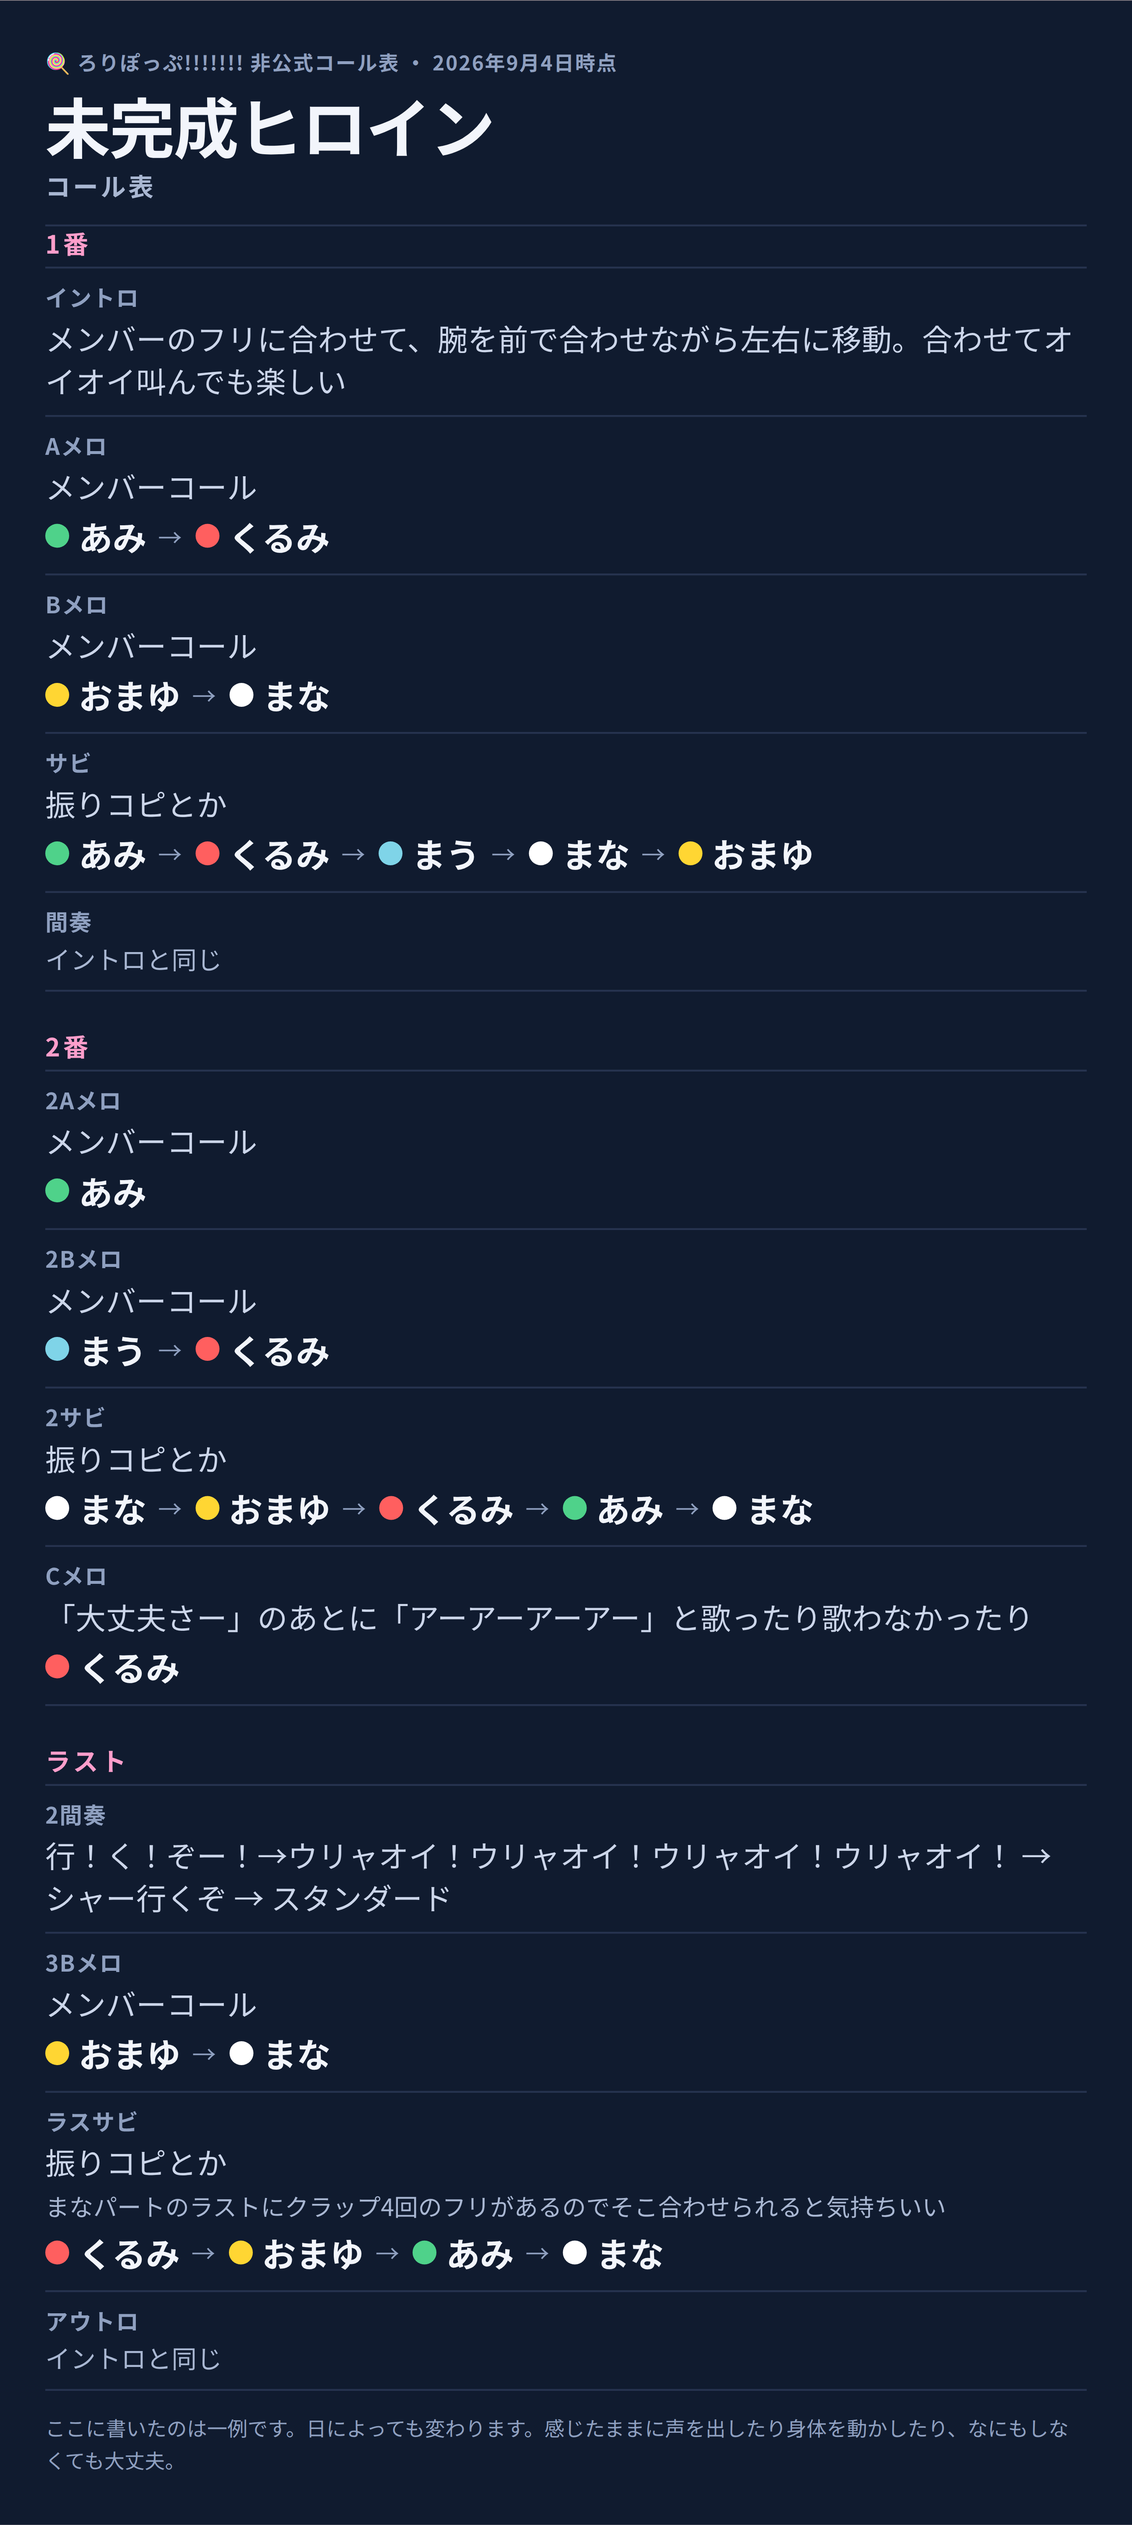
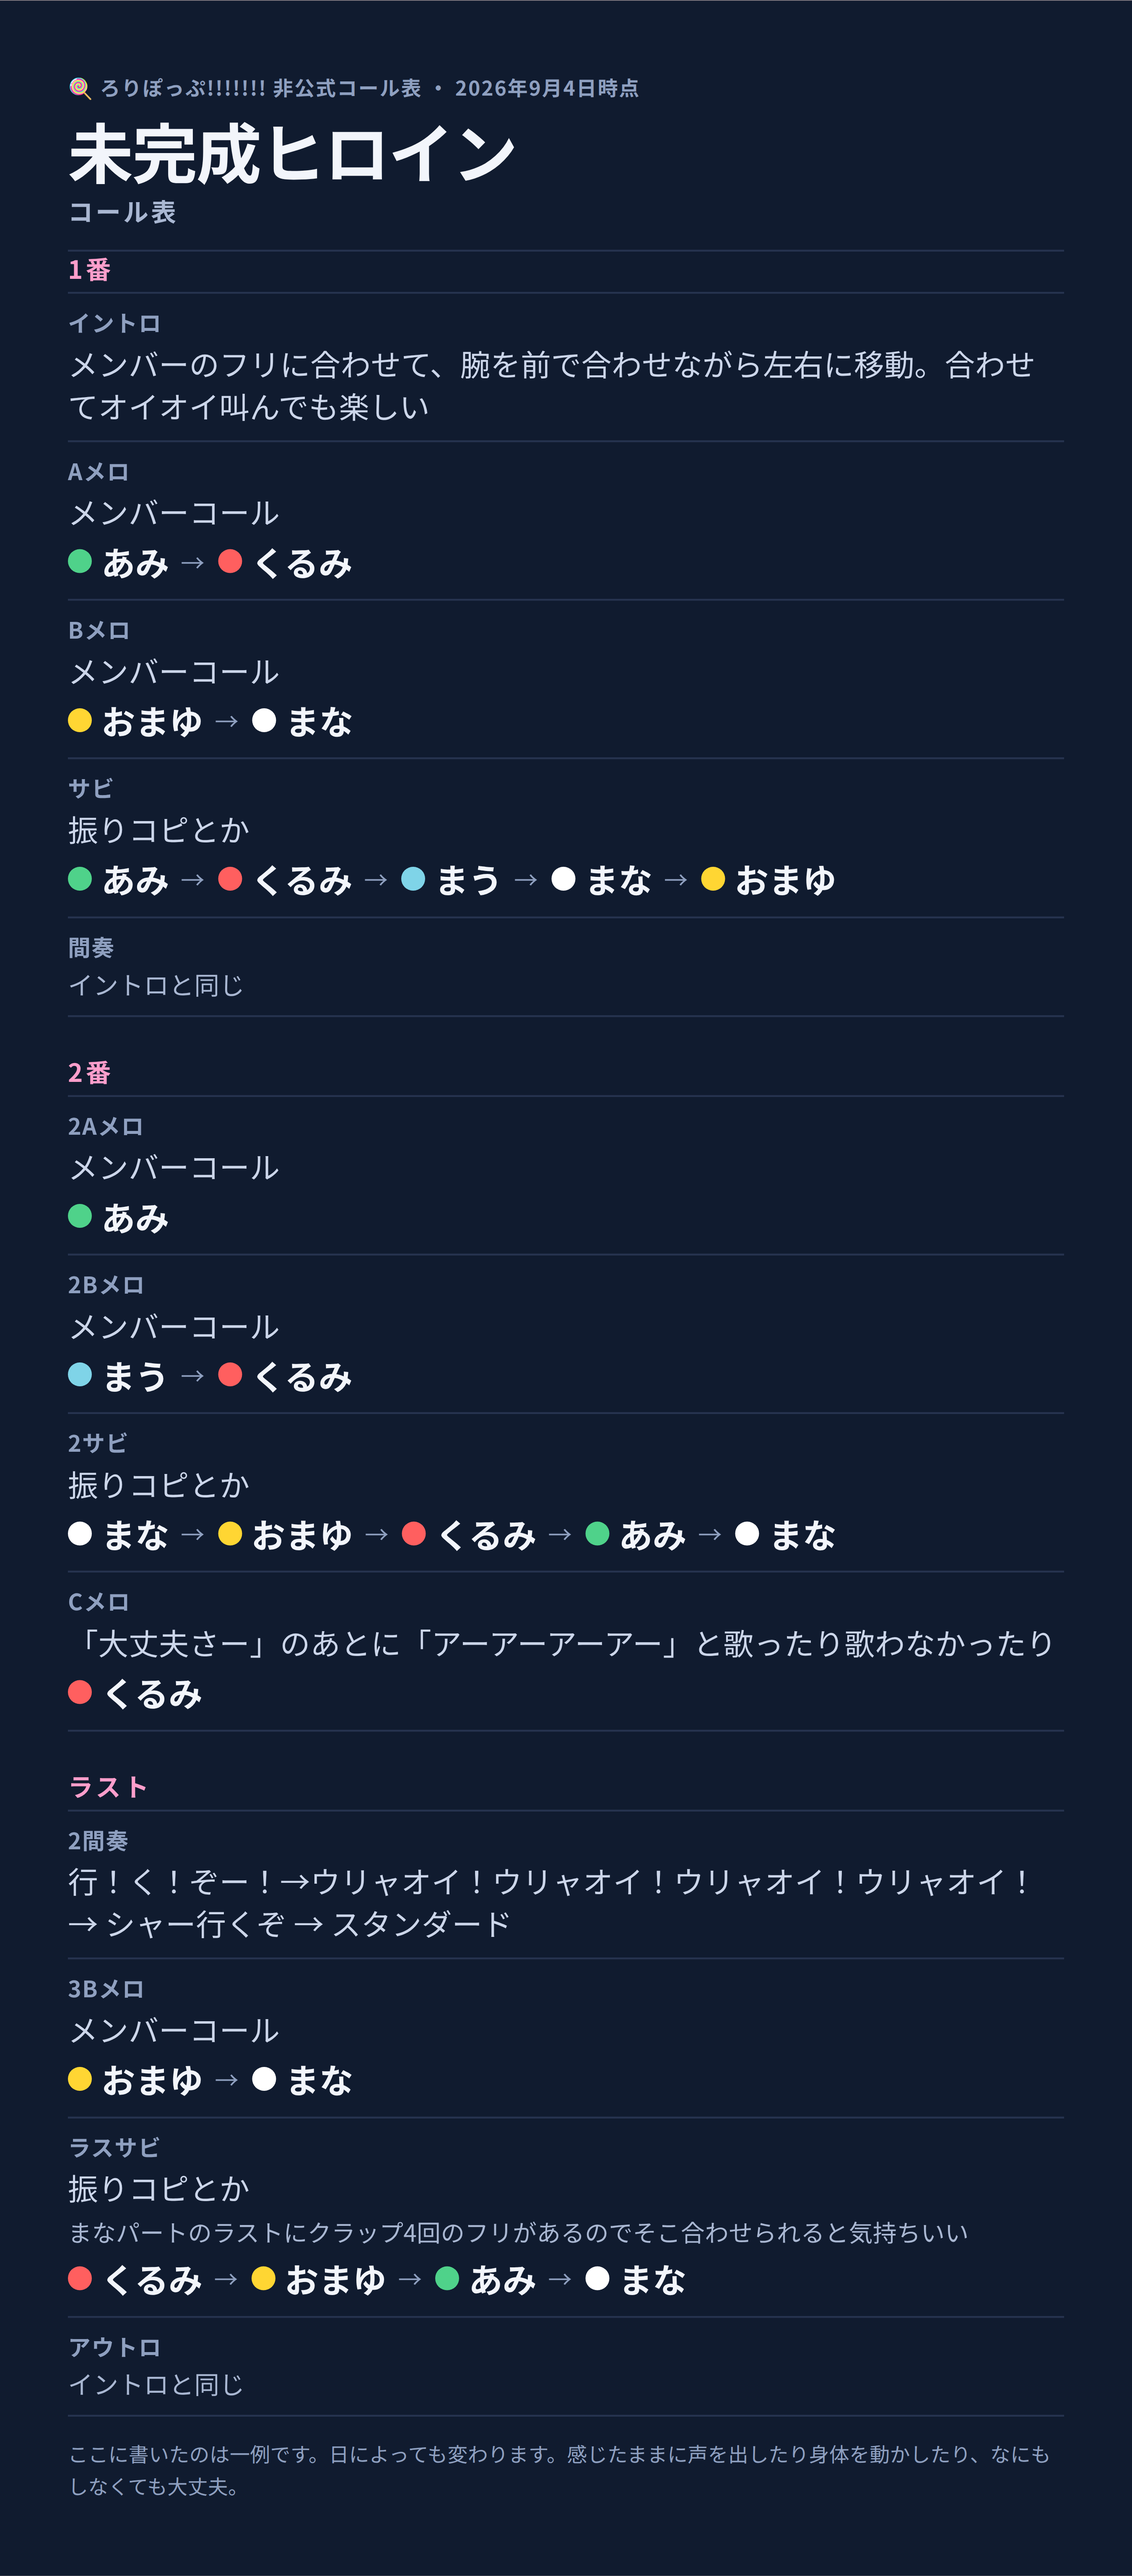
コール表カードの余白を広げる
カードの余白を 76px/72px から 116px/108px に。上下左右とも中身が縁に
近すぎたので、地の色が周りに残るようにした。

Claude-Session: https://claude.ai/code/session_01WNKk4GD6PDbxYTrbdx2WSv

diff --git a/resources/call_sheet_cards.html b/resources/call_sheet_cards.html
@@ -55,7 +55,7 @@ body {
 
 .card {
   width: 1800px;
-  padding: 76px 72px;
+  padding: 116px 108px;
   background-color: var(--ground);
   color: var(--text);
   display: flex;

diff --git a/resources/build_call_sheet.py b/resources/build_call_sheet.py
@@ -560,7 +560,7 @@ body {
 
 .card {
   width: 1800px;
-  padding: 76px 72px;
+  padding: 116px 108px;
   background-color: var(--ground);
   color: var(--text);
   display: flex;
